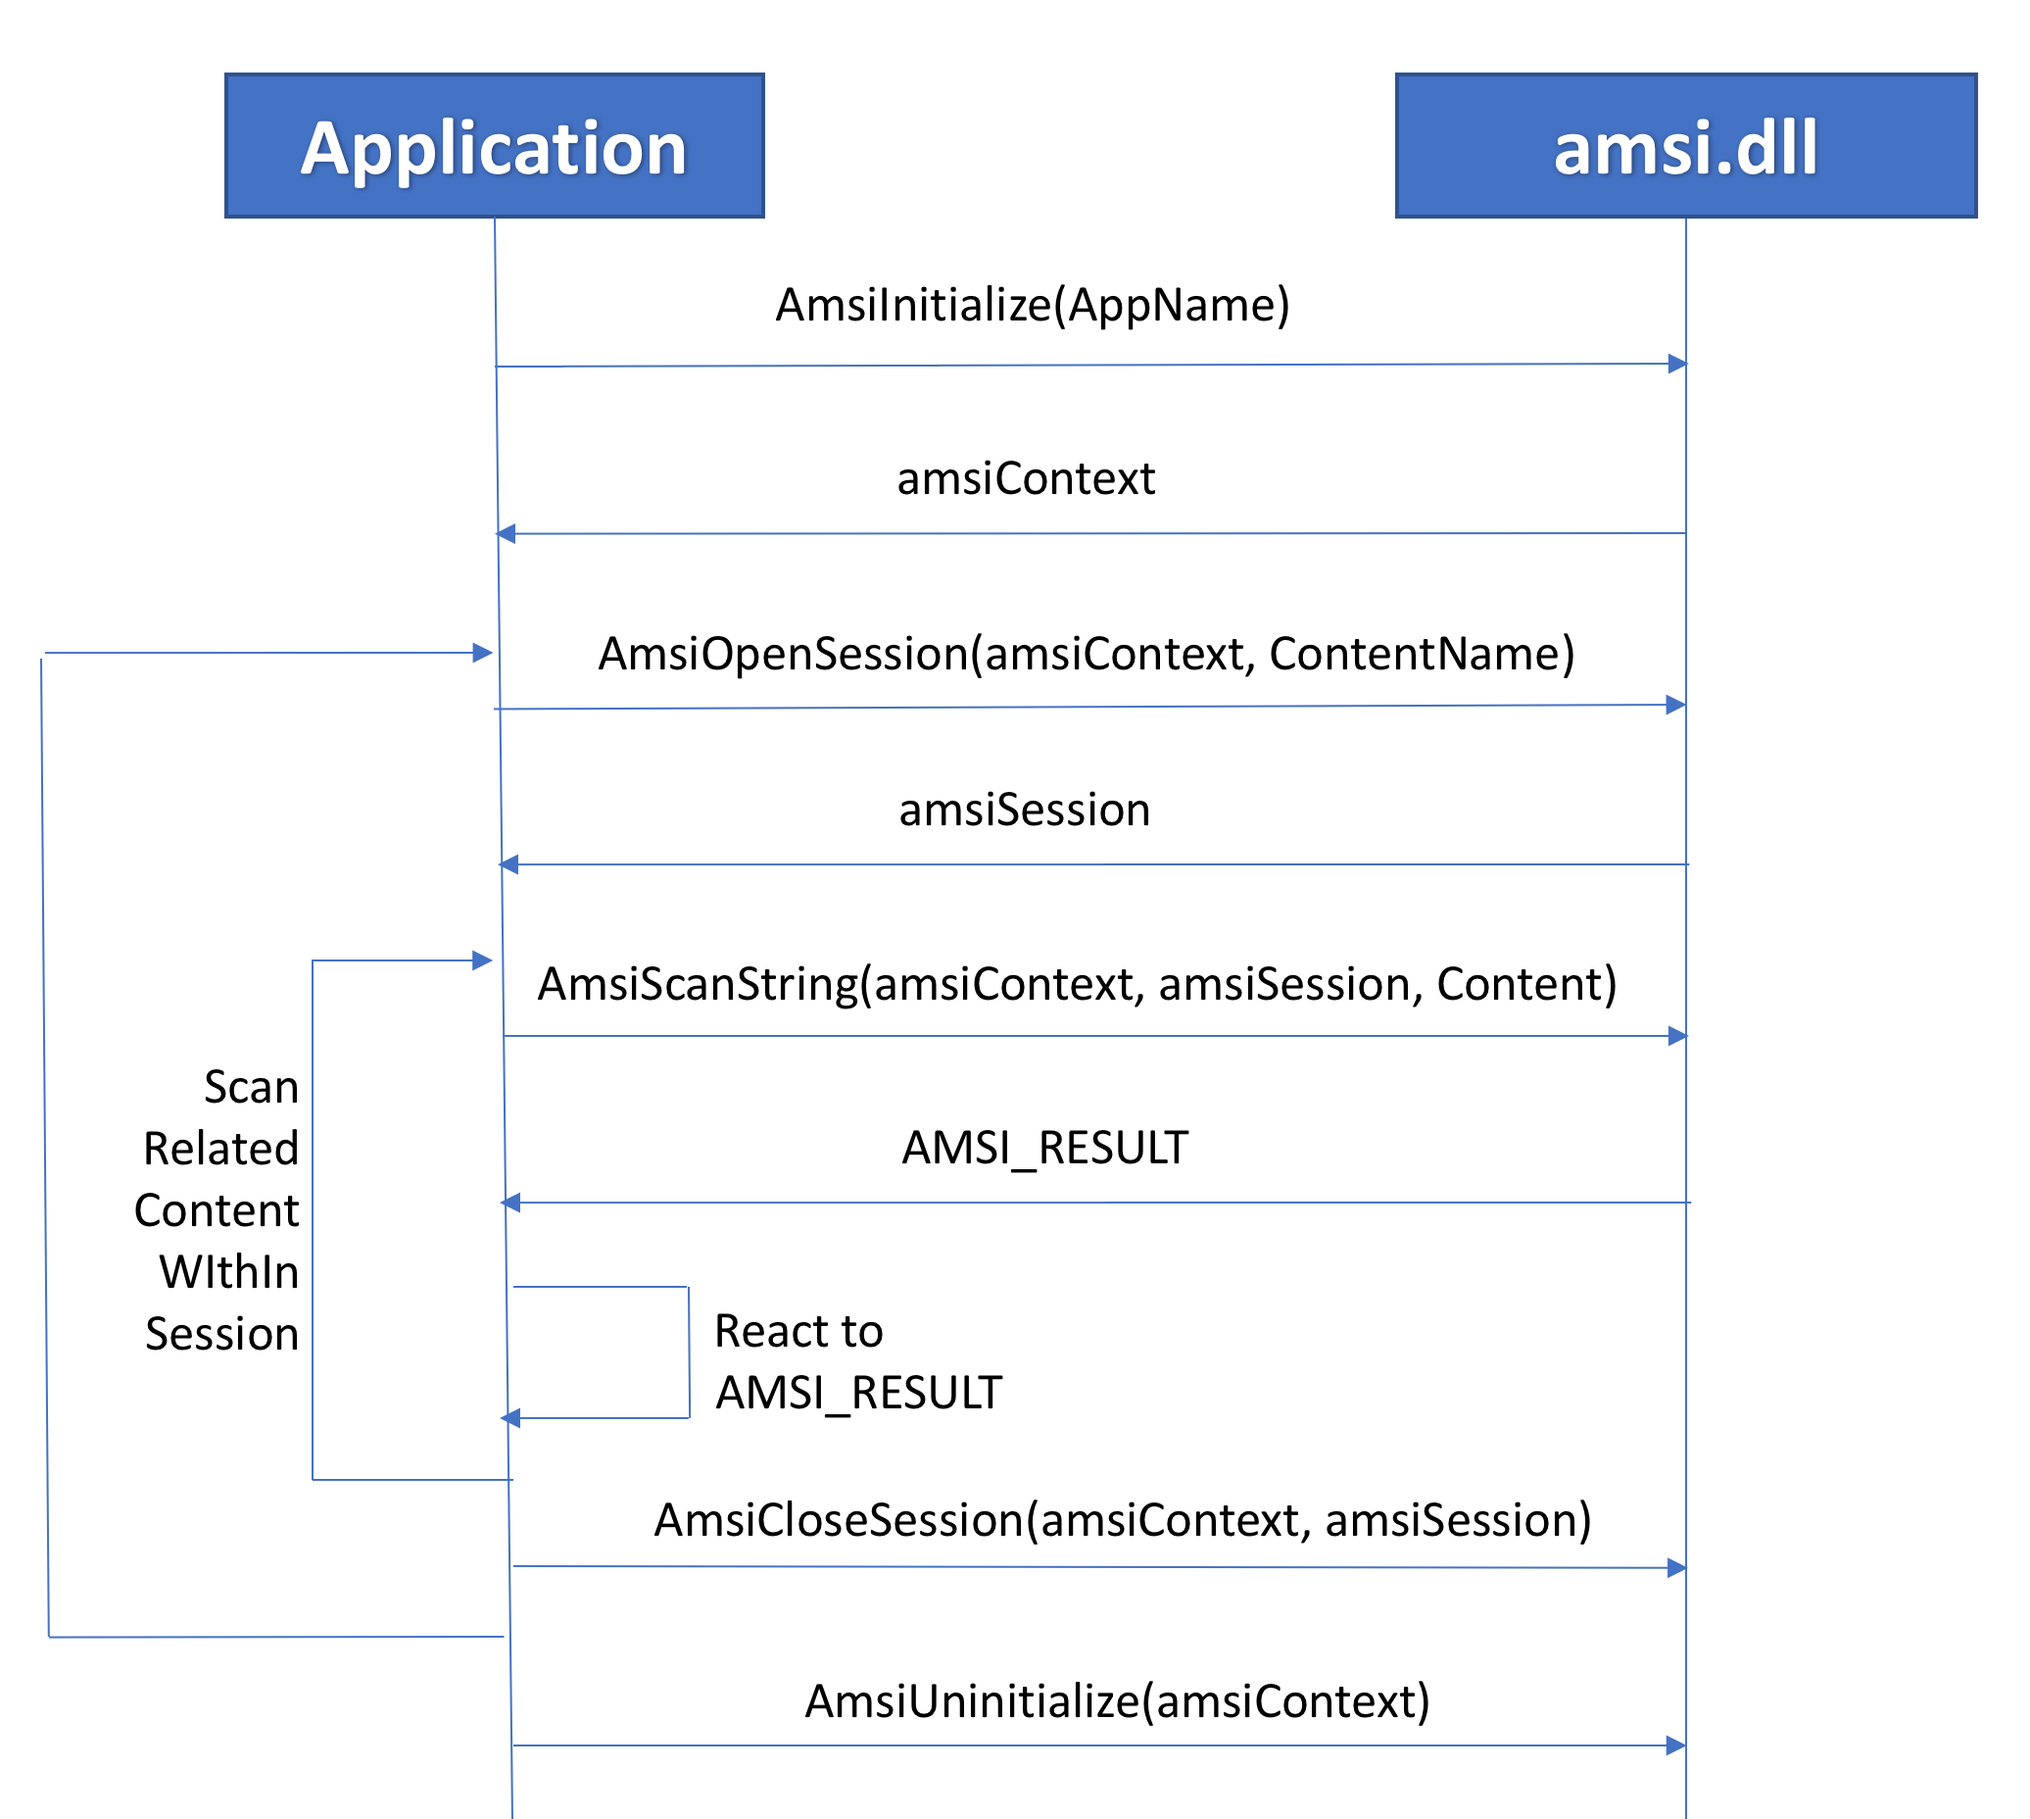
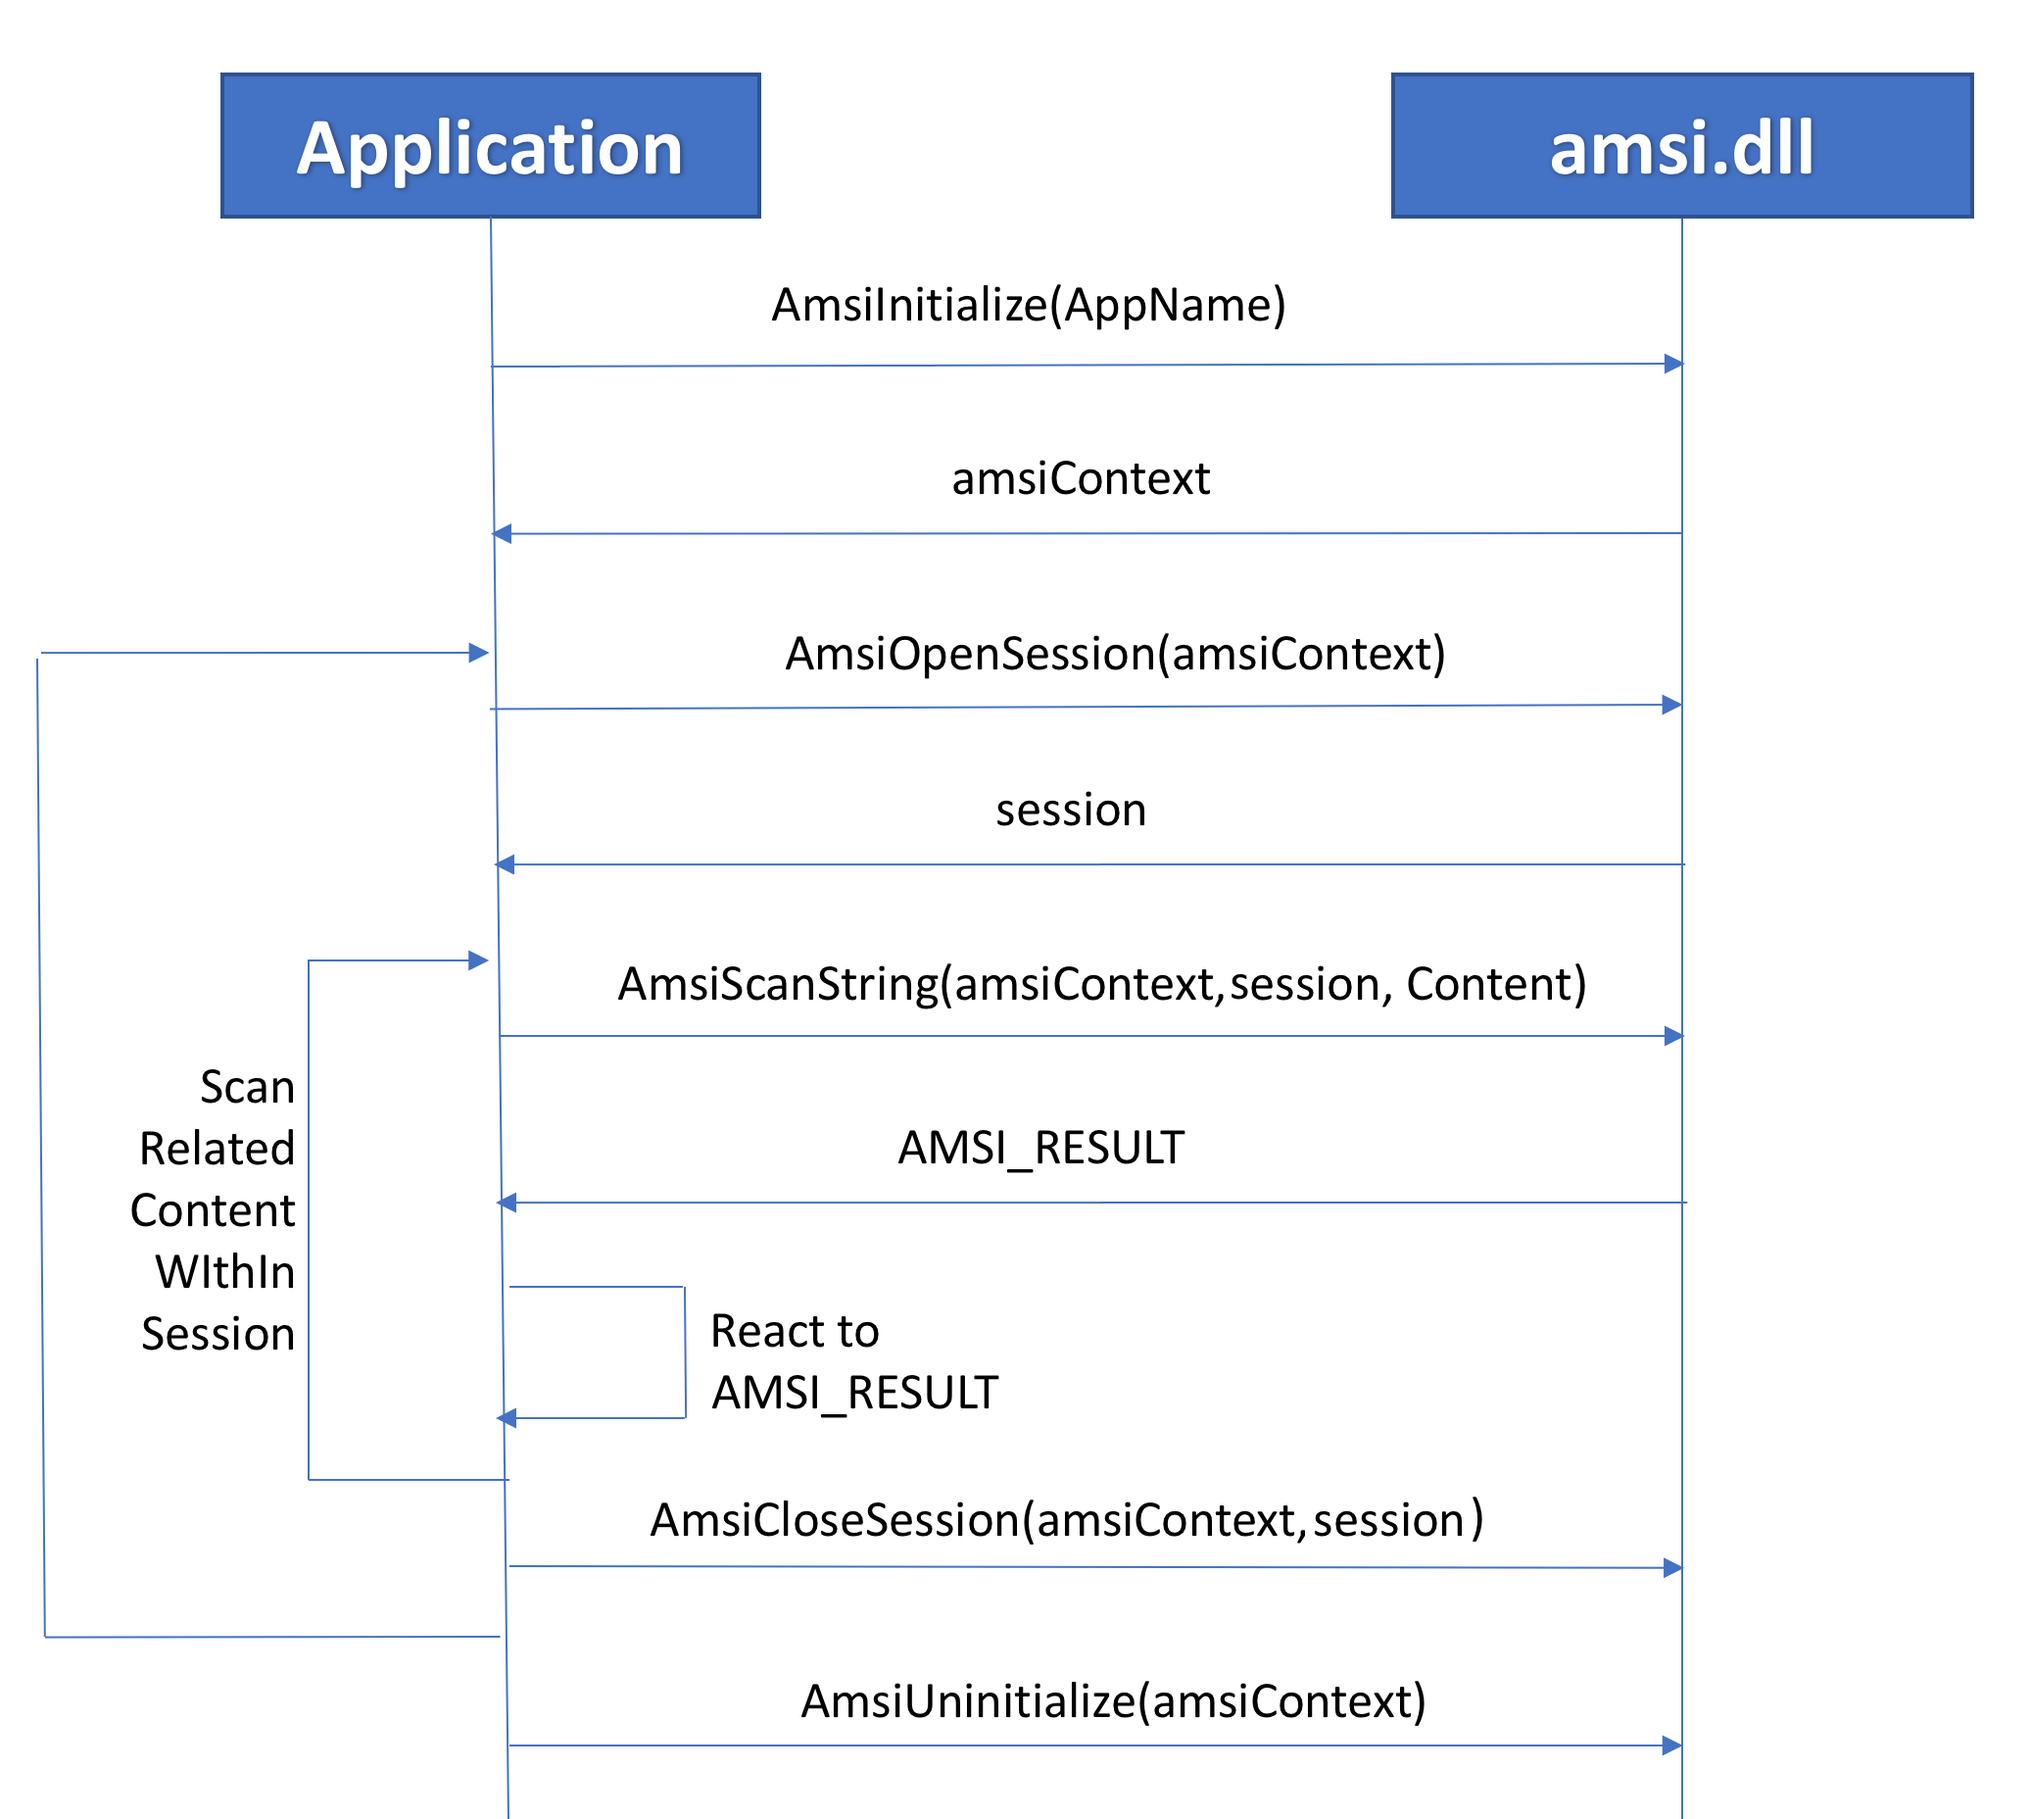
Fix

diff --git a/_posts/2017-11-14-PSAmsi-Minimizing-Obfuscation-To-Maximize-Stealth.md b/_posts/2017-11-14-PSAmsi-Minimizing-Obfuscation-To-Maximize-Stealth.md
@@ -58,7 +58,7 @@ From an application's perspective, utilizing the AMSI involves calling a series 
 
 ![High-Level AMSI Diagram]({{site.baseurl}}/assets/images/my-dumb-amsi-diagram.png)
 
-However, there is a little more detail in implementation. There is the notion of an `amsiContext` and an `amsiSession`. The idea is that the `amsiContext` is a reference to the application submitting content to be scanned (i.e. PowerShell), where the `amsiSession` is a reference to a stream of related content scans. An application can maintain one or many amsiSessions for correlating content across several scans. For instance, PowerShell may scan every ScriptBlock for a given PowerShell script in one amsiSession, while using a second amsiSession for every ScriptBlock in another PowerShell script. This allows 
+However, there is a little more detail in implementation. There is the notion of an `amsiContext` and a `session`. The idea is that the `amsiContext` is a reference to the application submitting content to be scanned (i.e. PowerShell), where the `session` is a reference to a stream of related content scans. An application can maintain one or many sessions for correlating content across several scans. For instance, PowerShell may scan every ScriptBlock for a given PowerShell script in one session, while using a second session for every ScriptBlock in another PowerShell script. This allows the AntiMalware Provider the ability to correlate data across scans by `session`.
 
 For a developer considering implementing AMSI into their application, the following diagram could be a useful reference:
 
@@ -188,7 +188,7 @@ Now we are using obfuscation to defeat all of the AMSI signatures, and also avoi
 
 # Defense
 
-We have arrived at the customary defensive mitigations portion present in any good offensive security blog post. I've tried my best to make this not just a checkbox to say I've recommended defensive mitigations, but a series of actionable steps defenders can take to protect themselves against *any* PowerShell threat, including payloads generated by PSAmsi. Nearly all of these defense ideas have been discussed at length in other places, but I'll try my best to summarize them here.
+We have arrived at the customary defensive mitigations portion present in any good offensive security blog post. I've tried my best to make this a series of actionable steps defenders can take to protect themselves against *any* PowerShell threat, including payloads generated by PSAmsi. Nearly all of these defense ideas have been discussed at length in other places, but I'll try my best to summarize them here.
 
 To start off, the good news for defenders is that PSAmsi generates a **ton** of AV alerts while it is searching for AMSI signatures. However, if attackers are utilizing PSAmsi correctly, they won't be executing it on any of your systems, and will only be executing payloads *generated* by PSAmsi.
 
